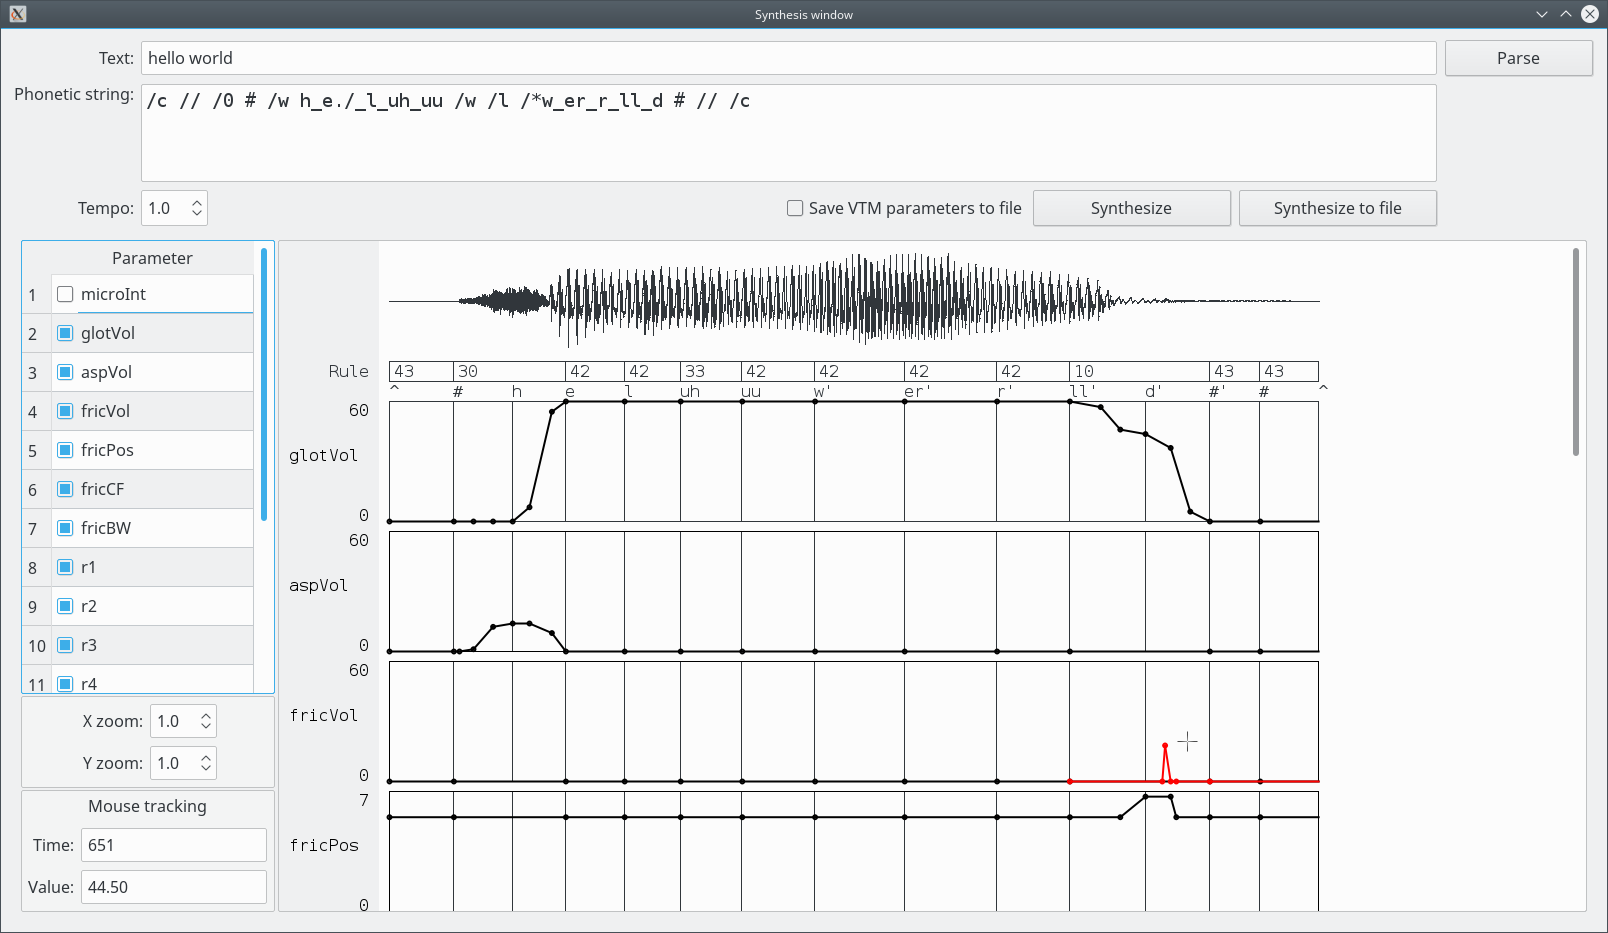
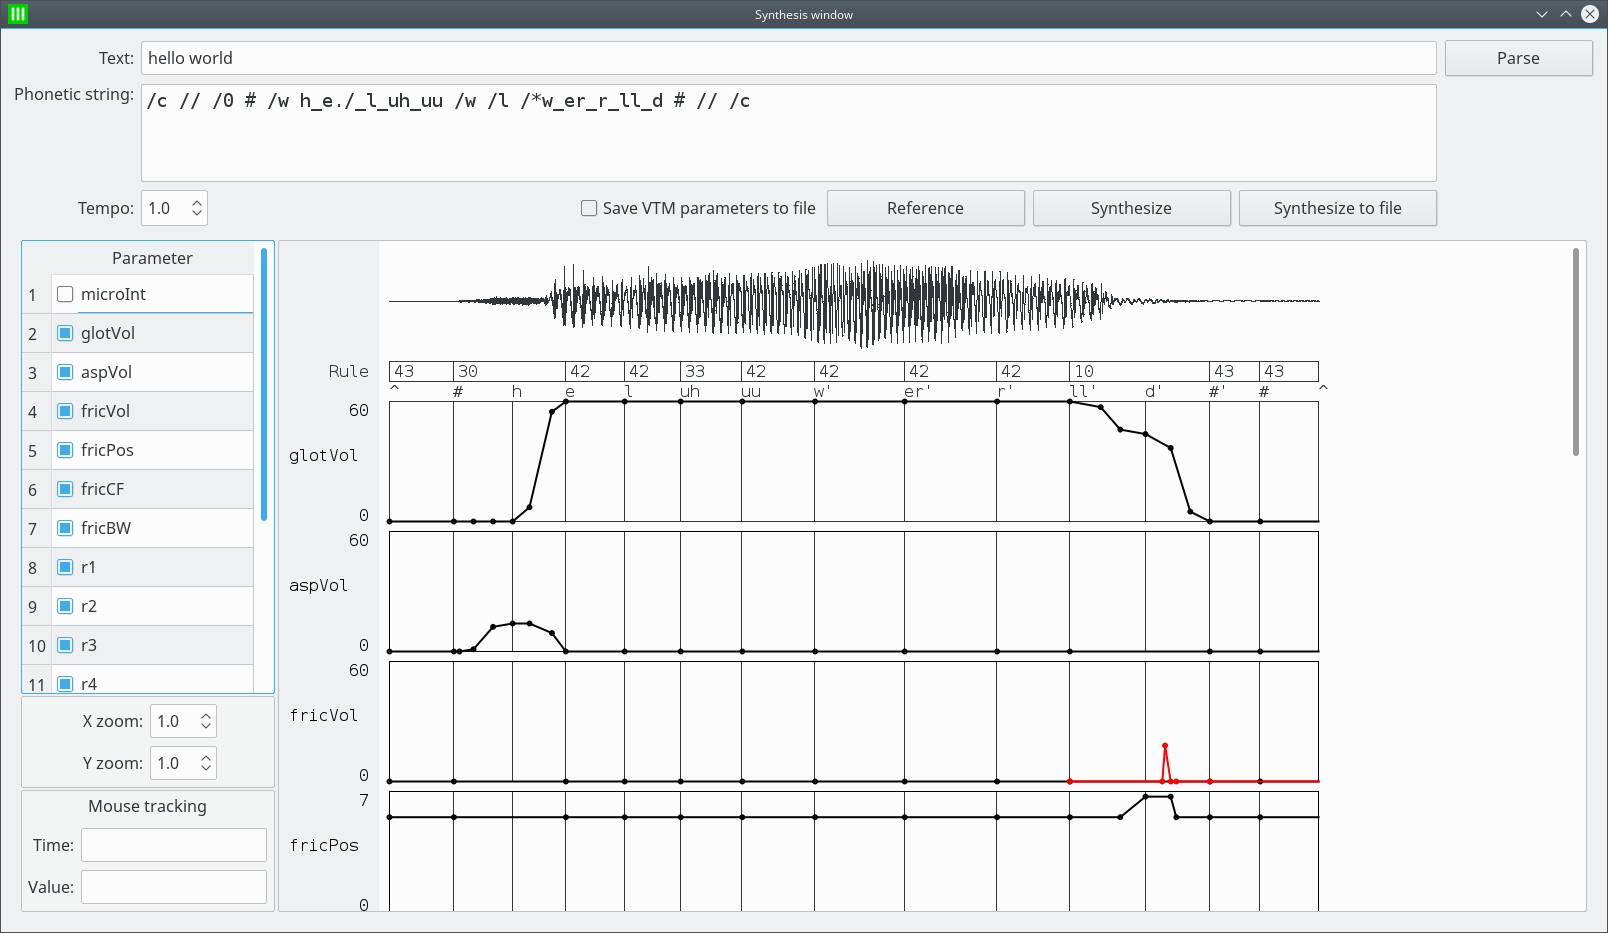
GamaTTS 0.6 / GamaTTS:Editor 2017_09_07.

diff --git a/gama_tts.html b/gama_tts.html
@@ -23,10 +23,20 @@
 <div class="content">
 <h1>How to use GamaTTS</h1>
 
+<ol>
+<li><a href="#modes">Modes of execution</a></li>
+<li><a href="#pho0">Gnuspeech phonetic format</a></li>
+<li><a href="#pho1">MBROLA phonetic format</a></li>
+<li><a href="#data">Description of the data files (<code>data/english/vtm0</code> to <code>vtm5</code>)</a></li>
+<li><a href="#notes">Notes</a></li>
+</ol>
+
+<hr>
+<!-- ======================================================================= -->
+<h2 id="modes">Modes of execution</h2>
+
 <p>Execute <code>gama_tts --help</code> to see how to run the program.
 </p>
-
-<h2>Modes of execution</h2>
 
 <p>There are four modes of execution:<p>
 
@@ -56,8 +66,8 @@ With this mode, an external front-end can be used, like Festival or Espeak.
 </ol>
 
 <hr>
-
-<h2>Gnuspeech phonetic format</h2>
+<!-- ======================================================================= -->
+<h2 id="pho0">Gnuspeech phonetic format</h2>
 
 <p>- Valid Posture names contain Unicode characters except:</p>
 
@@ -101,8 +111,8 @@ The quick black dog jumps over the lazy brown fox.<br>
 </p>
 
 <hr>
-
-<h2>MBROLA phonetic format</h2>
+<!-- ======================================================================= -->
+<h2 id="pho1">MBROLA phonetic format</h2>
 
 <p>The phonetic string contains lines in the format:<br>
 <code>phoneme duration intonation_point_pos_1 intonation_point_value_1 intonation_point_pos_2 intonation_point_value_2...</code><br>
@@ -135,8 +145,8 @@ pau 220
 </pre>
 
 <hr>
-
-<h2>Description of the data files (<code>data/english/vtm0</code> to <code>vtm5</code>)</h2>
+<!-- ======================================================================= -->
+<h2 id="data">Description of the data files (<code>data/english/vtm0</code> to <code>vtm5</code>)</h2>
 
 <pre>
 artic.xml
@@ -251,11 +261,21 @@ text_parser/
 
 </pre>
 
+<hr>
+<!-- ======================================================================= -->
+<h2 id="notes">Notes</h2>
+
+<ul>
+<li>When setting noise parameters like breathiness or frication volume, the value indicates the amplitude of
+the noise source (the pseudo-random number generator).
+The amplitude after the filtering can be significantly lower.</li>
+</ul>
+
 </div>
 
 	<div id="footer">This documentation is licensed under a <a rel="license" href="http://creativecommons.org/licenses/by-sa/4.0/">Creative Commons Attribution-ShareAlike 4.0 International License</a>.
 <br>
-Last update: 2017-08-19
+Last update: 2017-09-08
 </div>
 
 </div>

diff --git a/gama_tts_editor.html b/gama_tts_editor.html
@@ -233,8 +233,8 @@ Uncheck to remove the Posture from a Category. The Posture can not be removed fr
 	alt="Screenshot of the posture editor - symbols"></p>
 
 <p>The Symbol values indicate the durations of each phase of the articulation.<br>
- Qssa is the duration of the slow variation phase just before the center of the Posture.<br>
- Qssb is the duration of the slow variation phase just after the center of the Posture.<br>
+ Qssa (quasi steady state A) is the duration of the slow variation phase just before the center of the Posture.<br>
+ Qssb (quasi steady state B) is the duration of the slow variation phase just after the center of the Posture.<br>
  Transition is the duration of the fast variation phase before of after the slow variation phases.<br>
  "Duration" is the total duration of the Posture, and is roughly equal to qssa + qssb + transition.<br>
  The symbols with the "marked" prefix are used for marked Postures.
@@ -703,6 +703,8 @@ higher than the desired value.
 <ul>
 <li>Parse the text and synthesize it:<br>Enter the text in the field "Text" and press <kbd>ENTER</kbd>, or click on "Parse".
  A phonetic string is inserted into the field "Phonetic string".</li>
+<li>Synthesize the phonetic string using the saved data:<br>Click on "Reference" and the sound will be sent to JACK audio.
+This is useful to compare the (unsaved) modifications with the saved (reference) data.</li>
 <li>Synthesize the phonetic string:<br>Click on "Synthesize" and the sound will be sent to JACK audio.</li>
 <li>Synthesize the phonetic string to file:<br>Click on "Synthesize to file" and the sound will be sent to a WAVE file.</li>
 <li>Unselect a parameter:<br>Uncheck a checkbox in the Parameters list.</li>
@@ -810,7 +812,7 @@ and the modified curve is shown in blue.
 
 	<div id="footer">This documentation is licensed under a <a rel="license" href="http://creativecommons.org/licenses/by-sa/4.0/">Creative Commons Attribution-ShareAlike 4.0 International License</a>.
 <br>
-Last update: 2017-08-25
+Last update: 2017-09-08
 </div>
 
 </div>
